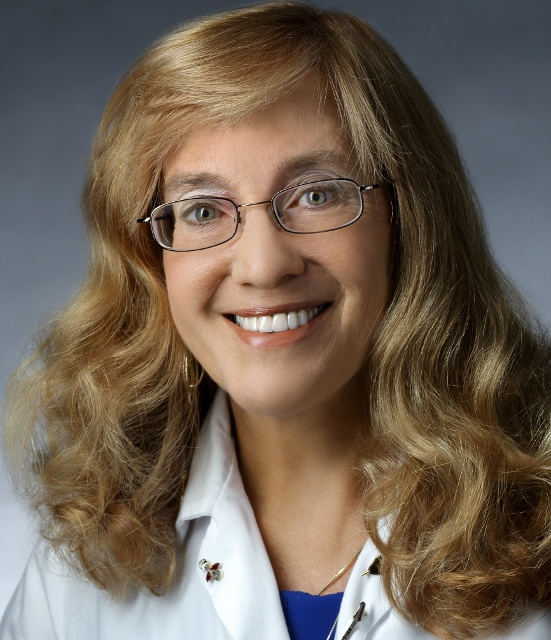
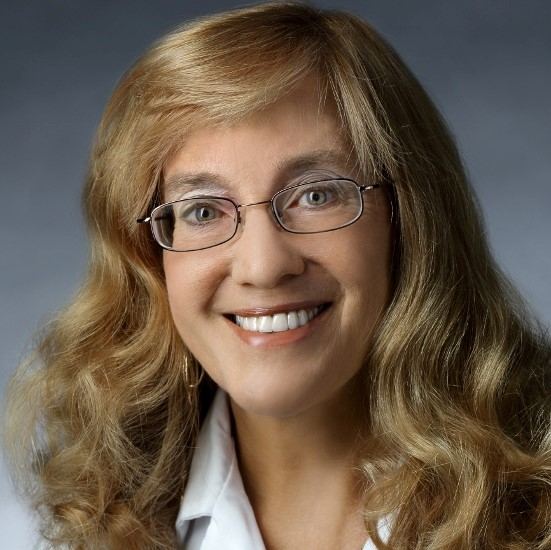
updated

diff --git a/_pages/about.html b/_pages/about.html
@@ -368,7 +368,7 @@ permalink: /about
             <div class="col-lg-3 col-md-6">
                 <div class="single-team-box">
                     <div class="image">
-                        <img src="assets/img/team/team8.jpg" alt="image">
+                        <img src="assets/img/team/ressom.jpg" alt="image">
 
                         <ul class="social">
                             <li>
